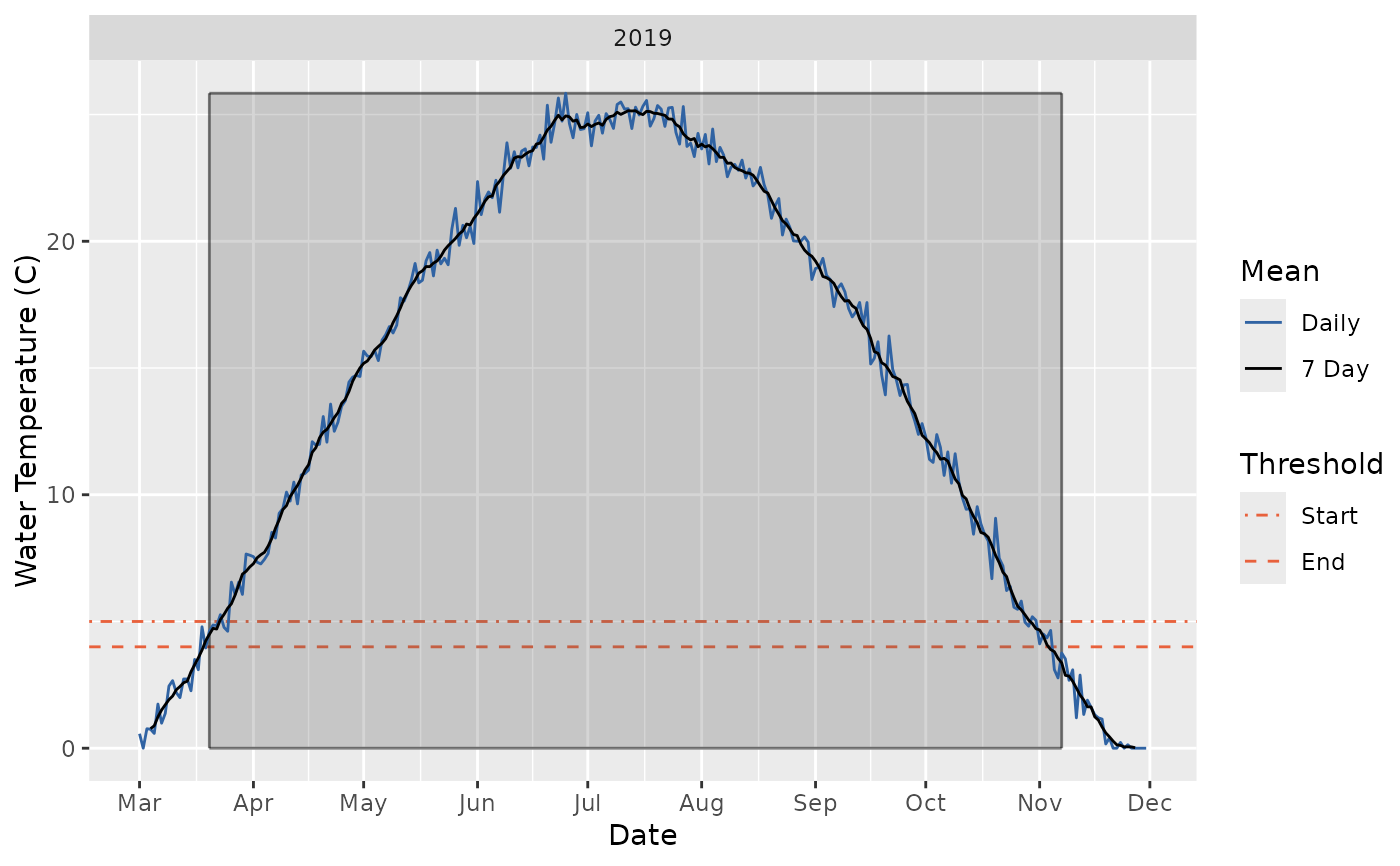
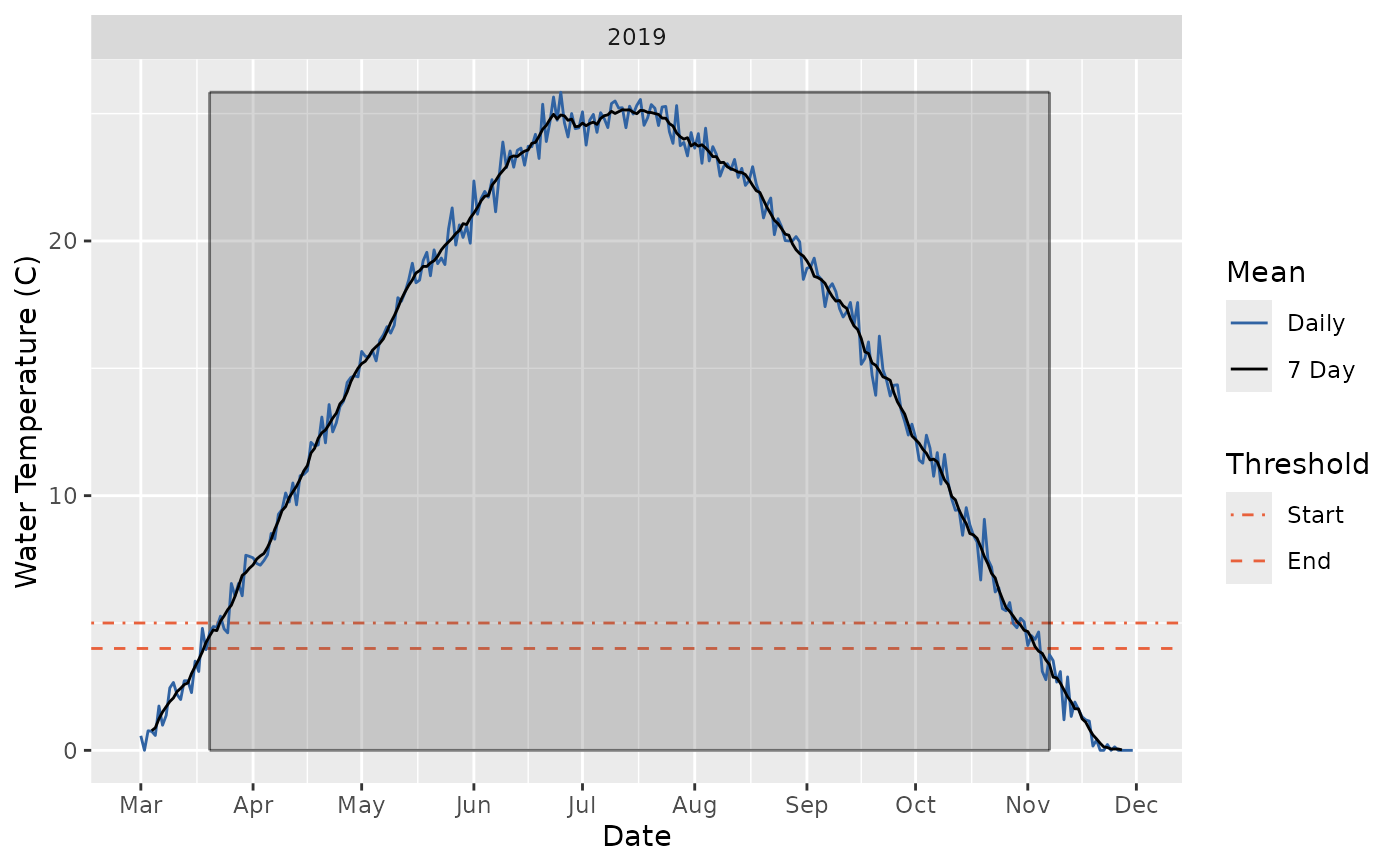
Deploying to gh-pages from @ poissonconsulting/gsdd@c6e620a899a87e046c668cd2c4e06624160e3617 🚀

diff --git a/authors.html b/authors.html
@@ -43,11 +43,15 @@
           </p>
         </li>
         <li>
+          <p><strong>Bronwen Lewis</strong>. Contributor.
+          </p>
+        </li>
+        <li>
           <p><strong>Jill Brooks</strong>. Contributor.
           </p>
         </li>
         <li>
-          <p><strong>Bronwen Lewis</strong>. Contributor.
+          <p><strong><a href="https://www.poissonconsulting.ca/author/duncan-kennedy/" class="external-link">Duncan Kennedy</a></strong>. Contributor.
           </p>
         </li>
         <li>

diff --git a/reference/gsdd-package.html b/reference/gsdd-package.html
@@ -49,8 +49,9 @@
     <h2 id="author">Author<a class="anchor" aria-label="anchor" href="#author"></a></h2>
     <p><strong>Maintainer</strong>: Joe Thorley <a href="mailto:[email redacted]">[email redacted]</a> (<a href="https://orcid.org/0000-0002-7683-4592" class="external-link">ORCID</a>)</p>
 <p>Authors:</p><ul><li><p>Sarah Lyons (<a href="https://orcid.org/0000-0002-6745-6796" class="external-link">ORCID</a>)</p></li>
-</ul><p>Other contributors:</p><ul><li><p>Jill Brooks [contributor]</p></li>
-<li><p>Bronwen Lewis [contributor]</p></li>
+</ul><p>Other contributors:</p><ul><li><p>Bronwen Lewis [contributor]</p></li>
+<li><p>Jill Brooks [contributor]</p></li>
+<li><p>Duncan Kennedy [contributor]</p></li>
 <li><p>Elk Valley Resources [funder, copyright holder]</p></li>
 </ul></div>
 